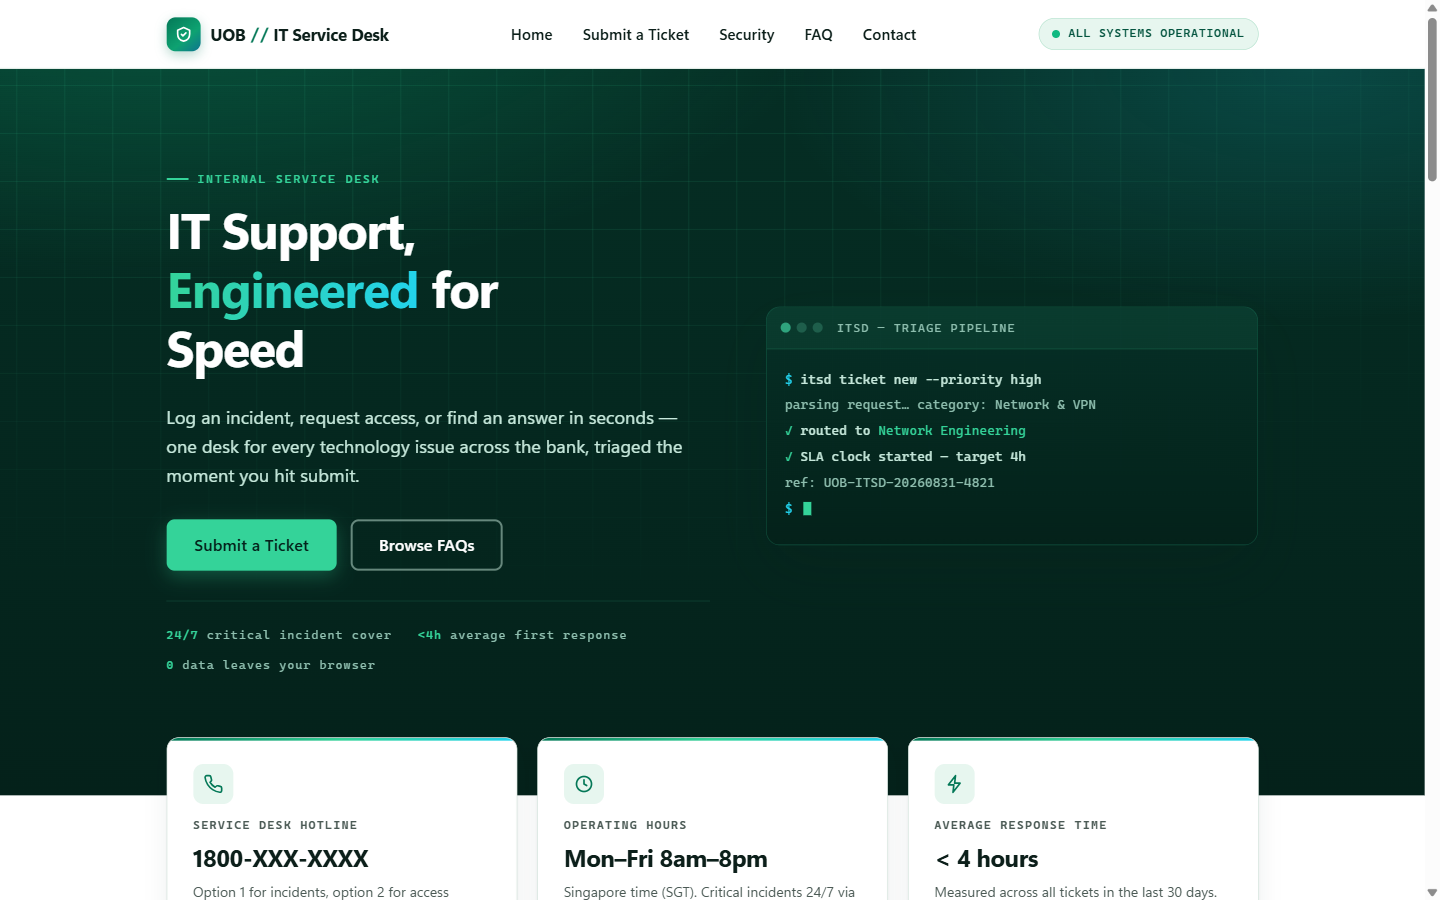
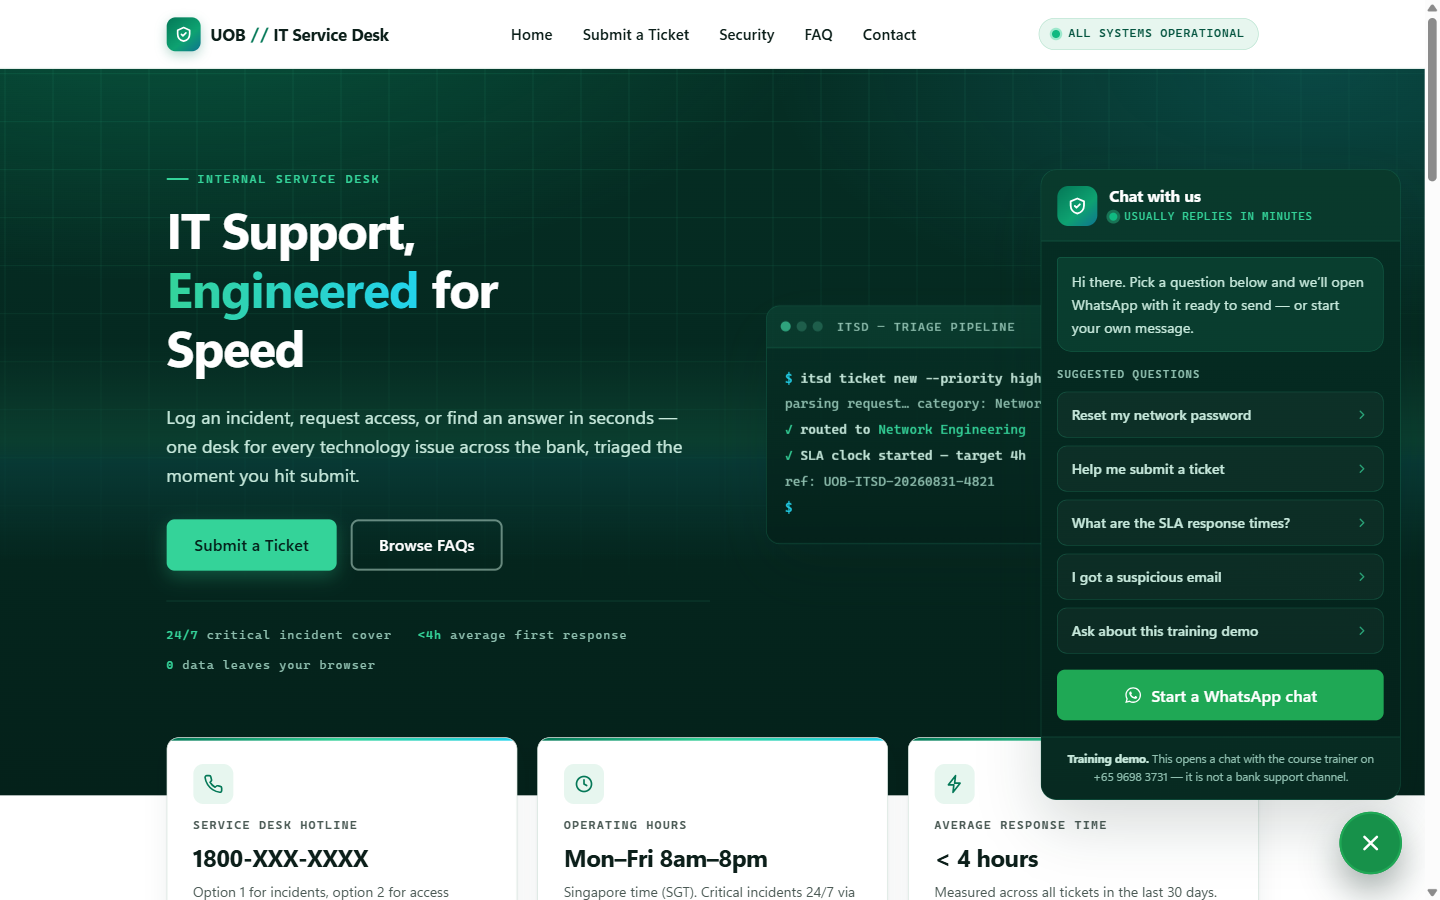
Add a floating WhatsApp widget with suggested questions
A launcher fixed bottom-right opens a panel of five suggested questions;
each hands off to WhatsApp on +65 9698 3731 with the message already
written, so someone with a question does not have to compose one.

Built from the existing tokens rather than a bolt-on widget style: the
--deep panel, --green-bright accents, mono eyebrows and site radius all
match the hero and footer. WhatsApp's own brand green is confined to the
launcher and the primary CTA, where it does the work of making the
channel recognisable.

The chips and the CTA are plain <a href> links in the markup, so the
widget still works with JavaScript disabled — the script only adds
open/close, focus into the first suggestion, and dismissal on Escape,
outside click or focus-out. Nothing in the JS builds a URL.

This is the one deliberate exception to the no-external-URL rule, and
the documented constraint grep now allowlists wa.me alongside the SVG
namespace. The distinction that makes it acceptable: a wa.me link is a
navigation the user chooses, not a request the page issues. The document
still loads zero external resources, still transmits nothing on its own,
and the CSP still blocks fetch, XHR and websockets outright.

A live chat button on a page carrying bank branding could be mistaken
for a real support line, so the panel is framed as the trainer's contact
throughout and carries an explicit "not a bank support channel" line.
That line sits outside the scrolling body so it stays visible when the
[…]

diff --git a/index.html b/index.html
@@ -585,6 +585,120 @@ input[type="file"].visually-hidden:focus-visible + .file-btn{outline:3px solid v
 }
 
 /* ============================================================
+   SECTION 4 — FLOATING WHATSAPP WIDGET
+   Styled from the same tokens as the hero and footer: a --deep panel
+   with the --green-bright accent, mono eyebrows and the site radius.
+   WhatsApp's own brand green is used ONLY on the launcher button, so
+   the channel is recognisable at a glance.
+   ============================================================ */
+@keyframes waRing{
+  0%{transform:scale(1);opacity:.55}
+  70%{transform:scale(1.55);opacity:0}
+  100%{transform:scale(1.55);opacity:0}
+}
+@keyframes waPanelIn{
+  from{opacity:0;transform:translateY(14px) scale(.96)}
+  to{opacity:1;transform:none}
+}
+
+.wa{position:fixed;right:24px;bottom:24px;z-index:60}
+
+/* ---- Launcher ---- */
+.wa__fab{
+  position:relative;display:grid;place-items:center;
+  width:60px;height:60px;border-radius:50%;border:0;padding:0;
+  background:#1FA855;color:#fff;cursor:pointer;
+  box-shadow:0 10px 28px rgba(4,33,26,.32);
+  transition:transform .2s ease,box-shadow .2s ease,background-color .2s ease;
+}
+.wa__fab:hover{background:#17914A;transform:translateY(-3px) scale(1.04);box-shadow:0 16px 36px rgba(4,33,26,.4)}
+.wa__fab:active{transform:translateY(-1px) scale(1)}
+/* Expanding ring — draws the eye without moving layout. */
+.wa__fab::before{
+  content:"";position:absolute;inset:0;border-radius:50%;
+  border:2px solid #1FA855;animation:waRing 2.6s ease-out infinite;pointer-events:none;
+}
+.wa__fab[aria-expanded="true"]::before{animation:none}
+.wa__fab .wa__close{display:none}
+.wa__fab[aria-expanded="true"] .wa__open{display:none}
+.wa__fab[aria-expanded="true"] .wa__close{display:block}
+
+/* Unread-style nudge, purely decorative. */
+.wa__badge{
+  position:absolute;top:-2px;right:-2px;
+  min-width:20px;height:20px;border-radius:10px;
+  background:var(--green-bright);color:#04231C;border:2px solid #fff;
+  font-family:var(--font-mono);font-size:.68rem;font-weight:700;line-height:16px;
+}
+.wa__fab[aria-expanded="true"] .wa__badge{display:none}
+
+/* ---- Panel ---- */
+.wa__panel{
+  position:absolute;right:0;bottom:76px;
+  width:min(360px,calc(100vw - 32px));
+  border-radius:16px;overflow:hidden;
+  border:1px solid var(--deep-line);
+  background:linear-gradient(180deg,var(--deep-2),var(--deep));
+  box-shadow:var(--shadow-lg);
+  animation:waPanelIn .26s cubic-bezier(.2,.8,.3,1);
+  transform-origin:bottom right;
+  /* Never grow past the viewport on a short window or a small phone. */
+  max-height:calc(100vh - 108px);display:flex;flex-direction:column;
+}
+.wa__head{flex:none}
+.wa__body{overflow-y:auto}
+.wa__head{
+  display:flex;align-items:flex-start;gap:12px;
+  padding:16px 16px 15px;border-bottom:1px solid var(--deep-line);
+  background:rgba(52,211,153,.07);
+}
+.wa__avatar{
+  display:grid;place-items:center;flex:none;width:40px;height:40px;border-radius:11px;
+  background:linear-gradient(140deg,var(--green),#0EA271 60%,var(--cyan-dim));color:#fff;
+}
+.wa__head h2{margin:0;font-size:1rem;color:#fff;letter-spacing:-.01em}
+.wa__status{
+  display:flex;align-items:center;gap:7px;margin:3px 0 0;
+  font-family:var(--font-mono);font-size:.68rem;letter-spacing:.08em;
+  text-transform:uppercase;color:var(--green-bright);
+}
+.wa__body{padding:16px;overscroll-behavior:contain}
+.wa__bubble{
+  margin:0 0 14px;padding:12px 14px;border-radius:4px 14px 14px 14px;
+  background:rgba(52,211,153,.10);border:1px solid var(--deep-line);
+  color:var(--on-deep);font-size:.9rem;line-height:1.6;
+}
+.wa__label{
+  display:block;margin:0 0 9px;
+  font-family:var(--font-mono);font-size:.66rem;font-weight:600;letter-spacing:.13em;
+  text-transform:uppercase;color:var(--on-deep-dim);
+}
+.wa__chips{display:flex;flex-direction:column;gap:8px;margin-bottom:16px}
+.wa__chip{
+  display:flex;align-items:center;justify-content:space-between;gap:10px;
+  padding:11px 14px;border-radius:10px;
+  border:1px solid var(--deep-line);background:rgba(255,255,255,.03);
+  color:var(--on-deep);text-decoration:none;font-size:.885rem;font-weight:500;
+  transition:background-color .16s,border-color .16s,transform .16s,color .16s;
+}
+.wa__chip:hover{
+  background:rgba(52,211,153,.13);border-color:var(--green-bright);
+  color:#fff;transform:translateX(3px);
+}
+.wa__chip svg{flex:none;color:var(--green-bright);opacity:.7;transition:opacity .16s}
+.wa__chip:hover svg{opacity:1}
+.wa__cta{width:100%;background:#1FA855;color:#fff;border-color:#1FA855}
+.wa__cta:hover{background:#17914A;border-color:#17914A;color:#fff}
+/* Outside .wa__body on purpose: the "not a bank channel" line must stay
+   visible even when the suggestions scroll on a short screen. */
+.wa__foot{
+  flex:none;margin:0;padding:12px 16px 14px;
+  border-top:1px solid var(--deep-line);background:rgba(52,211,153,.05);
+  font-size:.72rem;line-height:1.55;color:var(--on-deep-dim);text-align:center;
+}
+.wa__foot strong{color:var(--on-deep)}
+
+/* ============================================================
    RESPONSIVE
    ============================================================ */
 @media (max-width:960px){
@@ -614,6 +728,8 @@ input[type="file"].visually-hidden:focus-visible + .file-btn{outline:3px solid v
   .radio{flex:1 1 calc(50% - 10px)}
   .faq__btn{padding:18px 16px}
   .faq__panel{padding:0 16px 20px 16px}
+  .wa{right:16px;bottom:16px}
+  .wa__panel{bottom:72px}
 }
 
 @media (prefers-reduced-motion:reduce){
@@ -625,6 +741,7 @@ input[type="file"].visually-hidden:focus-visible + .file-btn{outline:3px solid v
   }
   .reveal{opacity:1;transform:none}
   .term__body > span{opacity:1}
+  .wa__fab::before{display:none}
 }
 </style>
 </head>
@@ -1160,6 +1277,72 @@ input[type="file"].visually-hidden:focus-visible + .file-btn{outline:3px solid v
   </div>
 </footer>
 
+<!-- ============================================================
+     SECTION 4 — FLOATING WHATSAPP WIDGET
+
+     The suggestion chips and the CTA are plain <a href> links, so the
+     widget still works with JavaScript disabled — the script only adds
+     the open/close behaviour around them. Every href carries the same
+     number; change one and you must change them all.
+     ============================================================ -->
+<div class="wa" id="waWidget">
+
+  <div class="wa__panel" id="waPanel" role="dialog" aria-modal="false" aria-labelledby="waTitle" hidden>
+    <div class="wa__head">
+      <span class="wa__avatar" aria-hidden="true">
+        <svg width="20" height="20" viewBox="0 0 24 24" fill="none" stroke="currentColor" stroke-width="2.2" stroke-linecap="round" stroke-linejoin="round"><path d="M12 3 4 6.5v5c0 4.7 3.2 8.6 8 9.5 4.8-.9 8-4.8 8-9.5v-5z"/><path d="m9 12 2 2 4-4"/></svg>
+      </span>
+      <div>
+        <h2 id="waTitle">Chat with us</h2>
+        <p class="wa__status"><span class="dot" aria-hidden="true"></span>Usually replies in minutes</p>
+      </div>
+    </div>
+
+    <div class="wa__body">
+      <p class="wa__bubble">Hi there. Pick a question below and we&rsquo;ll open WhatsApp with it ready to send &mdash; or start your own message.</p>
+
+      <span class="wa__label" id="waSuggestLabel">Suggested questions</span>
+      <div class="wa__chips" role="group" aria-labelledby="waSuggestLabel">
+        <a class="wa__chip" href="https://wa.me/6596983731?text=Hi%21%20How%20do%20I%20reset%20my%20network%20password%3F" target="_blank" rel="noopener noreferrer">
+          <span>Reset my network password</span>
+          <svg width="14" height="14" viewBox="0 0 24 24" fill="none" stroke="currentColor" stroke-width="2.4" stroke-linecap="round" stroke-linejoin="round" aria-hidden="true"><path d="m9 6 6 6-6 6"/></svg>
+        </a>
+        <a class="wa__chip" href="https://wa.me/6596983731?text=Hi%21%20I%20need%20help%20submitting%20a%20support%20ticket." target="_blank" rel="noopener noreferrer">
+          <span>Help me submit a ticket</span>
+          <svg width="14" height="14" viewBox="0 0 24 24" fill="none" stroke="currentColor" stroke-width="2.4" stroke-linecap="round" stroke-linejoin="round" aria-hidden="true"><path d="m9 6 6 6-6 6"/></svg>
+        </a>
+        <a class="wa__chip" href="https://wa.me/6596983731?text=Hi%21%20What%20are%20the%20SLA%20response%20times%20for%20each%20priority%3F" target="_blank" rel="noopener noreferrer">
+          <span>What are the SLA response times?</span>
+          <svg width="14" height="14" viewBox="0 0 24 24" fill="none" stroke="currentColor" stroke-width="2.4" stroke-linecap="round" stroke-linejoin="round" aria-hidden="true"><path d="m9 6 6 6-6 6"/></svg>
+        </a>
+        <a class="wa__chip" href="https://wa.me/6596983731?text=Hi%21%20I%20received%20a%20suspicious%20email%20%E2%80%94%20what%20should%20I%20do%3F" target="_blank" rel="noopener noreferrer">
+          <span>I got a suspicious email</span>
+          <svg width="14" height="14" viewBox="0 0 24 24" fill="none" stroke="currentColor" stroke-width="2.4" stroke-linecap="round" stroke-linejoin="round" aria-hidden="true"><path d="m9 6 6 6-6 6"/></svg>
+        </a>
+        <a class="wa__chip" href="https://wa.me/6596983731?text=Hi%21%20I%27d%20like%20to%20ask%20about%20this%20IT%20Service%20Desk%20training%20demo." target="_blank" rel="noopener noreferrer">
+          <span>Ask about this training demo</span>
+          <svg width="14" height="14" viewBox="0 0 24 24" fill="none" stroke="currentColor" stroke-width="2.4" stroke-linecap="round" stroke-linejoin="round" aria-hidden="true"><path d="m9 6 6 6-6 6"/></svg>
+        </a>
+      </div>
+
+      <a class="btn wa__cta" href="https://wa.me/6596983731?text=Hi%21%20I%20have%20a%20question%20about%20the%20IT%20Service%20Desk." target="_blank" rel="noopener noreferrer">
+        <svg width="19" height="19" viewBox="0 0 24 24" fill="currentColor" aria-hidden="true"><path d="M12.04 2C6.58 2 2.13 6.45 2.13 11.91c0 1.75.46 3.45 1.32 4.95L2 22l5.25-1.38a9.9 9.9 0 0 0 4.79 1.22h.01c5.46 0 9.91-4.45 9.91-9.91S17.5 2 12.04 2zm0 18.15h-.01a8.2 8.2 0 0 1-4.19-1.15l-.3-.18-3.12.82.83-3.04-.2-.31a8.19 8.19 0 0 1-1.26-4.38c0-4.54 3.7-8.23 8.25-8.23a8.23 8.23 0 0 1 0 16.47zm4.52-6.16c-.25-.12-1.47-.72-1.69-.81-.23-.08-.39-.12-.56.13-.16.24-.64.8-.79.97-.14.16-.29.18-.54.06-.25-.13-1.05-.39-1.99-1.23-.74-.66-1.23-1.47-1.38-1.72-.14-.25-.01-.38.11-.5.11-.11.25-.29.37-.43.13-.15.17-.25.25-.41.08-.17.04-.31-.02-.43-.06-.12-.56-1.34-.76-1.84-.2-.48-.4-.42-.56-.43h-.47c-.17 0-.43.06-.66.31-.23.25-.86.85-.86 2.07 0 1.22.89 2.4 1.01 2.56.12.17 1.75 2.67 4.23 3.74.59.26 1.05.41 1.41.52.59.19 1.13.16 1.56.1.47-.07 1.47-.6 1.68-1.18.21-.58.21-1.08.14-1.18-.06-.11-.22-.17-.47-.29z"/></svg>
+        Start a WhatsApp chat
+      </a>
+    </div>
+
+    <p class="wa__foot"><strong>Training demo.</strong> This opens a chat with the course trainer on +65 9698 3731 &mdash; it is not a bank support channel.</p>
+  </div>
+
+  <button class="wa__fab" id="waToggle" type="button" aria-expanded="false" aria-controls="waPanel"
+          aria-label="Open the WhatsApp chat menu">
+    <svg class="wa__open" width="30" height="30" viewBox="0 0 24 24" fill="currentColor" aria-hidden="true"><path d="M12.04 2C6.58 2 2.13 6.45 2.13 11.91c0 1.75.46 3.45 1.32 4.95L2 22l5.25-1.38a9.9 9.9 0 0 0 4.79 1.22h.01c5.46 0 9.91-4.45 9.91-9.91S17.5 2 12.04 2zm0 18.15h-.01a8.2 8.2 0 0 1-4.19-1.15l-.3-.18-3.12.82.83-3.04-.2-.31a8.19 8.19 0 0 1-1.26-4.38c0-4.54 3.7-8.23 8.25-8.23a8.23 8.23 0 0 1 0 16.47zm4.52-6.16c-.25-.12-1.47-.72-1.69-.81-.23-.08-.39-.12-.56.13-.16.24-.64.8-.79.97-.14.16-.29.18-.54.06-.25-.13-1.05-.39-1.99-1.23-.74-.66-1.23-1.47-1.38-1.72-.14-.25-.01-.38.11-.5.11-.11.25-.29.37-.43.13-.15.17-.25.25-.41.08-.17.04-.31-.02-.43-.06-.12-.56-1.34-.76-1.84-.2-.48-.4-.42-.56-.43h-.47c-.17 0-.43.06-.66.31-.23.25-.86.85-.86 2.07 0 1.22.89 2.4 1.01 2.56.12.17 1.75 2.67 4.23 3.74.59.26 1.05.41 1.41.52.59.19 1.13.16 1.56.1.47-.07 1.47-.6 1.68-1.18.21-.58.21-1.08.14-1.18-.06-.11-.22-.17-.47-.29z"/></svg>
+    <svg class="wa__close" width="24" height="24" viewBox="0 0 24 24" fill="none" stroke="currentColor" stroke-width="2.4" stroke-linecap="round" aria-hidden="true"><path d="M18 6 6 18M6 6l12 12"/></svg>
+    <span class="wa__badge" aria-hidden="true">1</span>
+  </button>
+</div>
+
+
 <script>
 (function () {
   'use strict';
@@ -1591,6 +1774,58 @@ input[type="file"].visually-hidden:focus-visible + .file-btn{outline:3px solid v
     });
 
     faqEmpty.hidden = visible !== 0;
+  });
+
+  /* ============================================================
+     SECTION 4 — FLOATING WHATSAPP WIDGET
+
+     The chips and CTA are real links in the markup and work without any
+     of this; the script only adds open/close, focus handling and the
+     dismiss behaviours. Nothing here builds a URL or touches the network.
+     ============================================================ */
+  var waWidget = document.getElementById('waWidget');
+  var waToggle = document.getElementById('waToggle');
+  var waPanel  = document.getElementById('waPanel');
+
+  function setWaOpen(open) {
+    waToggle.setAttribute('aria-expanded', String(open));
+    waToggle.setAttribute('aria-label', open ? 'Close the WhatsApp chat menu'
+                                             : 'Open the WhatsApp chat menu');
+    waPanel.hidden = !open;
+    if (open) {
+      // Send focus to the first suggestion so the panel is usable from the keyboard.
+      var first = waPanel.querySelector('.wa__chip');
+      if (first) first.focus();
+    }
+  }
+
+  waToggle.addEventListener('click', function () {
+    setWaOpen(waToggle.getAttribute('aria-expanded') !== 'true');
+  });
+
+  // Choosing a suggestion hands off to WhatsApp — leave the panel closed behind it.
+  waPanel.addEventListener('click', function (e) {
+    if (e.target.closest('a')) setWaOpen(false);
+  });
+
+  // Escape closes and returns focus to the launcher.
+  document.addEventListener('keydown', function (e) {
+    if (e.key === 'Escape' && waToggle.getAttribute('aria-expanded') === 'true') {
+      setWaOpen(false);
+      waToggle.focus();
+    }
+  });
+
+  // A click or a tab-out anywhere else dismisses the panel.
+  document.addEventListener('click', function (e) {
+    if (!waWidget.contains(e.target) && waToggle.getAttribute('aria-expanded') === 'true') {
+      setWaOpen(false);
+    }
+  });
+  document.addEventListener('focusin', function (e) {
+    if (!waWidget.contains(e.target) && waToggle.getAttribute('aria-expanded') === 'true') {
+      setWaOpen(false);
+    }
   });
 
   /* ============================================================

diff --git a/README.md b/README.md
@@ -8,12 +8,12 @@ teaching example of accessible, dependency-free front-end work — a dark-green 
 aesthetic, CSS-only motion, and a Content Security Policy that makes "nothing leaves the
 browser" enforceable rather than merely claimed.
 
-![The IT Service Desk landing page: a dark green hero with a drifting grid backdrop, the headline "IT Support, Engineered for Speed", Submit a Ticket and Browse FAQs buttons, and a mock terminal panel showing a ticket being routed; three white cards below list the hotline, operating hours and average response time](docs/hero.png)
+![The IT Service Desk landing page: a dark green hero with a drifting grid backdrop, the headline "IT Support, Engineered for Speed", Submit a Ticket and Browse FAQs buttons, and a mock terminal panel showing a ticket being routed; the WhatsApp chat widget is open bottom-right with five suggested questions; three white cards below list the hotline, operating hours and average response time](docs/hero.png)
 
 <details>
 <summary>Full page — ticket form, credential guard and FAQ accordion</summary>
 
-![Full-length page screenshot: the hero and contact cards, a four-card band explaining the page's security controls, the ticket form part-filled and showing a staff-ID validation error plus the amber credential warning, the FAQ accordion with its third item expanded, and the dark four-column footer](docs/screenshot.png)
+![Full-length page screenshot: the hero and contact cards, a four-card band explaining the page's security controls, the ticket form part-filled and showing a staff-ID validation error plus the amber credential warning, the FAQ accordion with its third item expanded, the dark four-column footer, and the WhatsApp widget open over the hero](docs/screenshot.png)
 
 </details>
 
@@ -55,6 +55,12 @@ divided by `SECTION` marker comments that use matching numbering across all thre
   clickjacking banner if the page is ever framed, attachment type/size checks, and a rule
   that every user-supplied string (filenames included) reaches the DOM via `textContent`.
   The four claims in the page's own Security section are each actually implemented.
+- **WhatsApp widget** — a floating launcher bottom-right opens a panel of suggested
+  questions, each of which hands off to WhatsApp with the message pre-filled. The chips and
+  the CTA are plain `<a href>` links, so the widget works with JavaScript disabled; the script
+  only adds open/close, focus handling, and Escape / outside-click dismissal. It is labelled
+  as the course trainer's contact, not a bank support channel, and that disclaimer is pinned
+  outside the scroll area so it stays visible on short screens.
 - **Motion** — a drifting grid and a scanning sweep behind the hero, a terminal panel that
   types itself in, a scroll-reveal stagger driven by `IntersectionObserver`, and hover lifts
   on cards and buttons. All of it is decorative and all of it is switched off by
@@ -69,7 +75,7 @@ These are the exercise, not incidental details. Changes that break them defeat t
 | --- | --- |
 | One self-contained file | Must run by double-clicking, with no build step or server |
 | No `localStorage` / `sessionStorage` | Submitted tickets live in an in-memory array and are intentionally lost on reload |
-| No `fetch` / `XMLHttpRequest` | Nothing the user types may leave the browser |
+| No `fetch` / `XMLHttpRequest` | Nothing the user types may leave the browser. The one allowed external URL is the WhatsApp widget's `wa.me` link, which is a navigation the *user* chooses, not a request the page makes |
 | No external assets | Icons are inline SVG; the select chevron is a `data:` URI. This rules out Google Fonts — the type stacks name real families first and fall back to platform fonts |
 | The CSP meta tag stays | It is what makes "no network" enforceable; the page's Security section describes it, so the two must move together |
 | No credential collection | And the description field actively warns against pasting one |
@@ -79,10 +85,11 @@ Verify the first four at any time:
 
 ```bash
 grep -inE "localStorage|sessionStorage|fetch\(|XMLHttpRequest|https?://" index.html \
-  | grep -v "www.w3.org/2000/svg"
+  | grep -vE "www[.]w3[.]org/2000/svg|wa[.]me/"
 ```
 
-The only expected match is the source comment that names them.
+The only expected match is the source comment that names them. Two strings are allowlisted:
+the inline-SVG namespace and the WhatsApp widget's `wa.me` links.
 
 ## Conventions worth knowing before editing
 
@@ -104,6 +111,8 @@ The only expected match is the source comment that names them.
   and "the password reset link" — the two most common real service-desk phrasings. Loosening
   them reintroduces constant false positives.
 - **The SLA table appears twice** — in the `SLA` object and in prose in FAQ item 2. Update both.
+- **The WhatsApp number appears seven times** — six `wa.me` hrefs plus the widget's visible
+  disclaimer. `grep -c "6596983731|9698 3731" index.html` should return 7; change them together.
 
 ## Testing
 

diff --git a/CLAUDE.md b/CLAUDE.md
@@ -18,6 +18,10 @@ These are the point of the exercise, not incidental. Breaking any of them breaks
 - **No persistence, no network.** `localStorage`, `sessionStorage`, `fetch`, and
   `XMLHttpRequest` are forbidden. Submitted tickets are pushed onto the in-memory `tickets`
   array and are intentionally lost on reload.
+  **One deliberate exception**: the WhatsApp widget's `https://wa.me/...` links. Those are
+  user-initiated navigations *away* from the page, not requests the page issues -- the document
+  still loads zero external resources and transmits nothing on its own, and the CSP still blocks
+  fetch/XHR/websockets outright. Do not add any other `http` URL.
 - **No external assets.** The only SVGs are inline; the select chevron is a `data:` URI. The
   sole allowed `http` string in the file is the SVG namespace `www.w3.org/2000/svg`. This rules
   out Google Fonts — `--font` / `--font-mono` are stacks that name real families first and fall
@@ -42,7 +46,12 @@ There is no test framework. Verification is ad-hoc Node against the source:
 ```bash
 # Constraint check — must print only the comment line that mentions them
 grep -inE "localStorage|sessionStorage|fetch\(|XMLHttpRequest|https?://" index.html \
-  | grep -v "www.w3.org/2000/svg"
+  | grep -vE "www[.]w3[.]org/2000/svg|wa[.]me/"
+
+# Two strings are allowlisted above: the inline-SVG namespace, and the WhatsApp widget's
+# wa.me links. The number appears in six hrefs plus the widget's visible disclaimer --
+# all seven must change together.
+grep -c "6596983731|9698 3731" index.html
 
 # Parse the script block + audit tag balance and ARIA reference integrity
 node -e "
@@ -125,6 +134,19 @@ re-run the corpus above with both the should-flag and should-be-clean cases.
   mirrored in prose in FAQ item 2; update both together.
 - **Success panel**: swaps with the form via the `hidden` property and moves focus to the
   heading (`tabindex="-1"`).
+
+### WhatsApp widget
+
+A fixed launcher bottom-right (`z-index:60`, above the sticky header) plus a `--deep` panel of
+suggested questions. **The chips and the CTA are plain `<a href>` links in the markup** -- the
+widget works with JavaScript off, and the script only adds open/close, focus handling, and the
+Escape / outside-click / focus-out dismissals. Nothing in the JS builds a URL.
+
+Each link is a fully written-out `https://wa.me/<number>?text=<pre-encoded message>`, so the
+number is repeated; see the grep above. `.wa__foot` sits *outside* the scrolling `.wa__body` on
+purpose -- the "not a bank support channel" line must stay visible when the suggestions scroll
+on a short screen. That disclaimer, and the panel's framing as the trainer's contact, are what
+keep a live chat button on a bank-branded page from reading as a real support line. Keep both.
 
 ### Security posture
 
